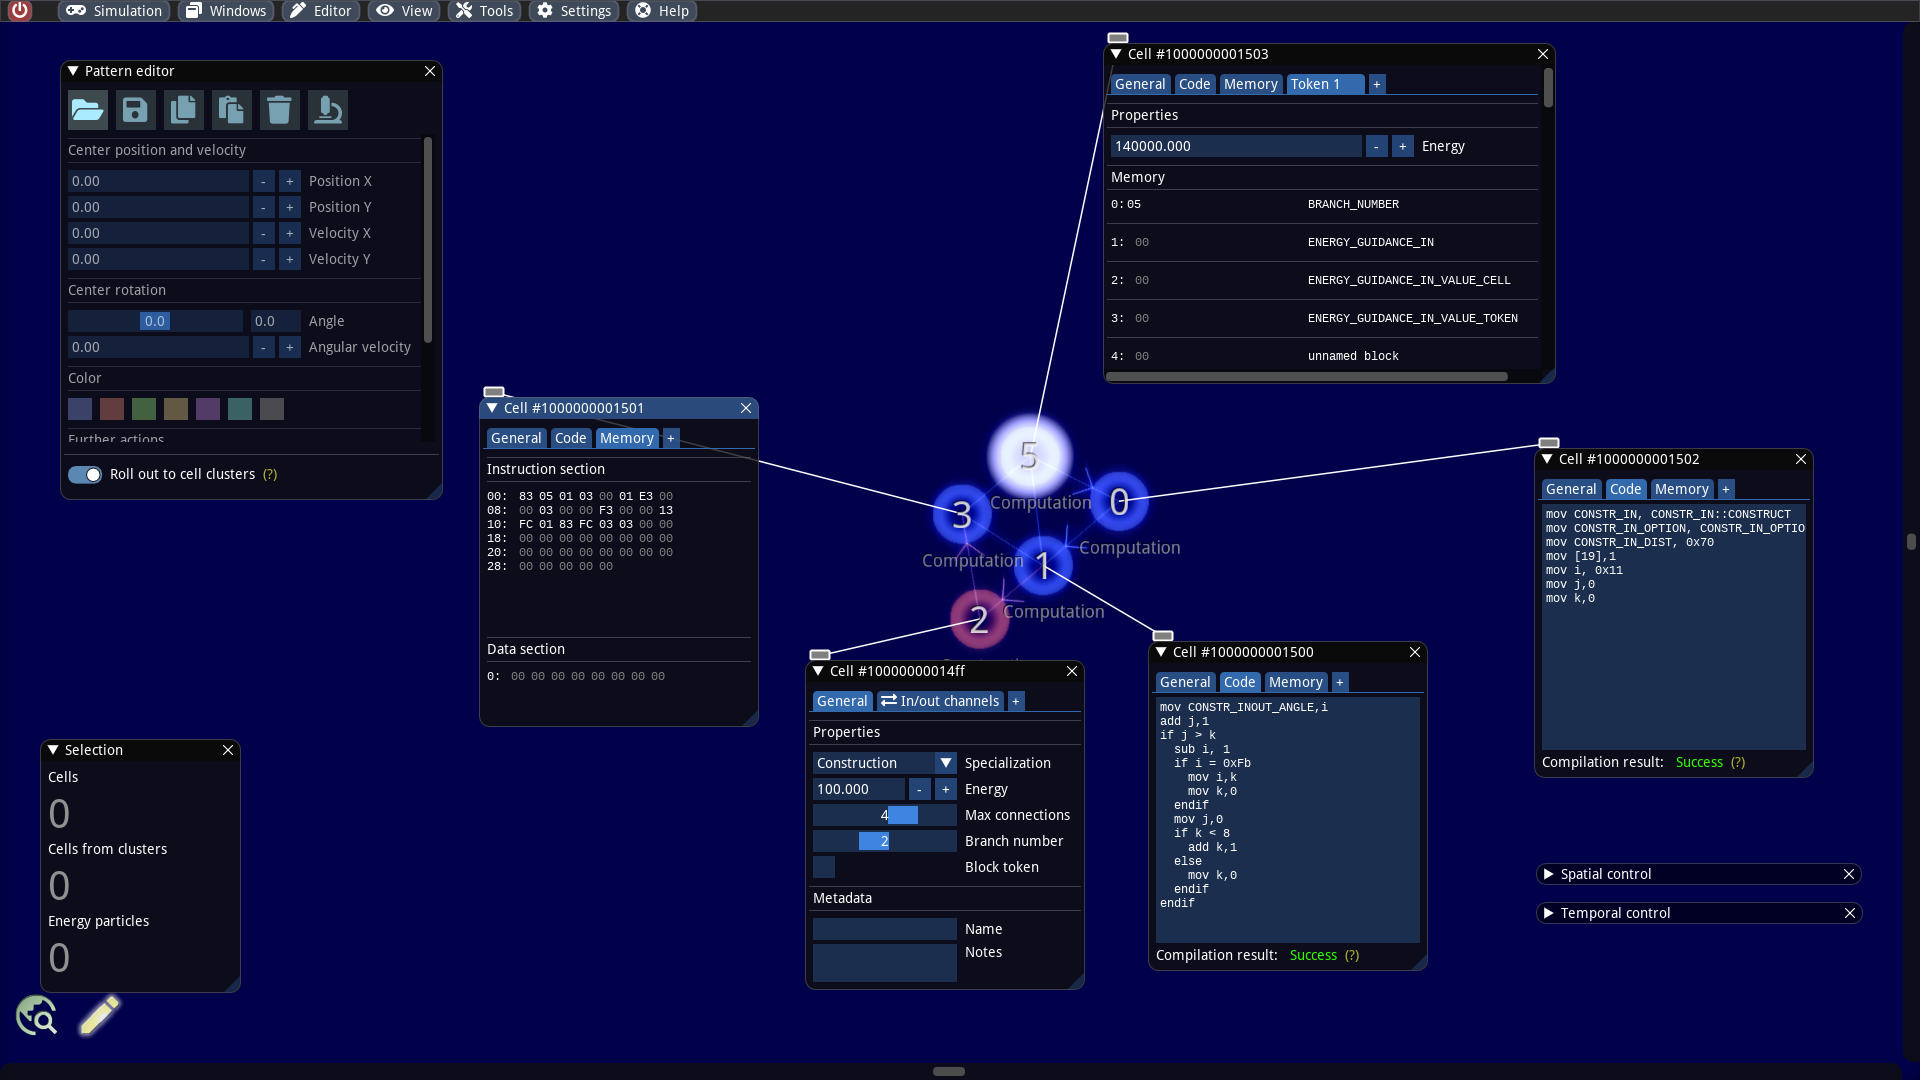
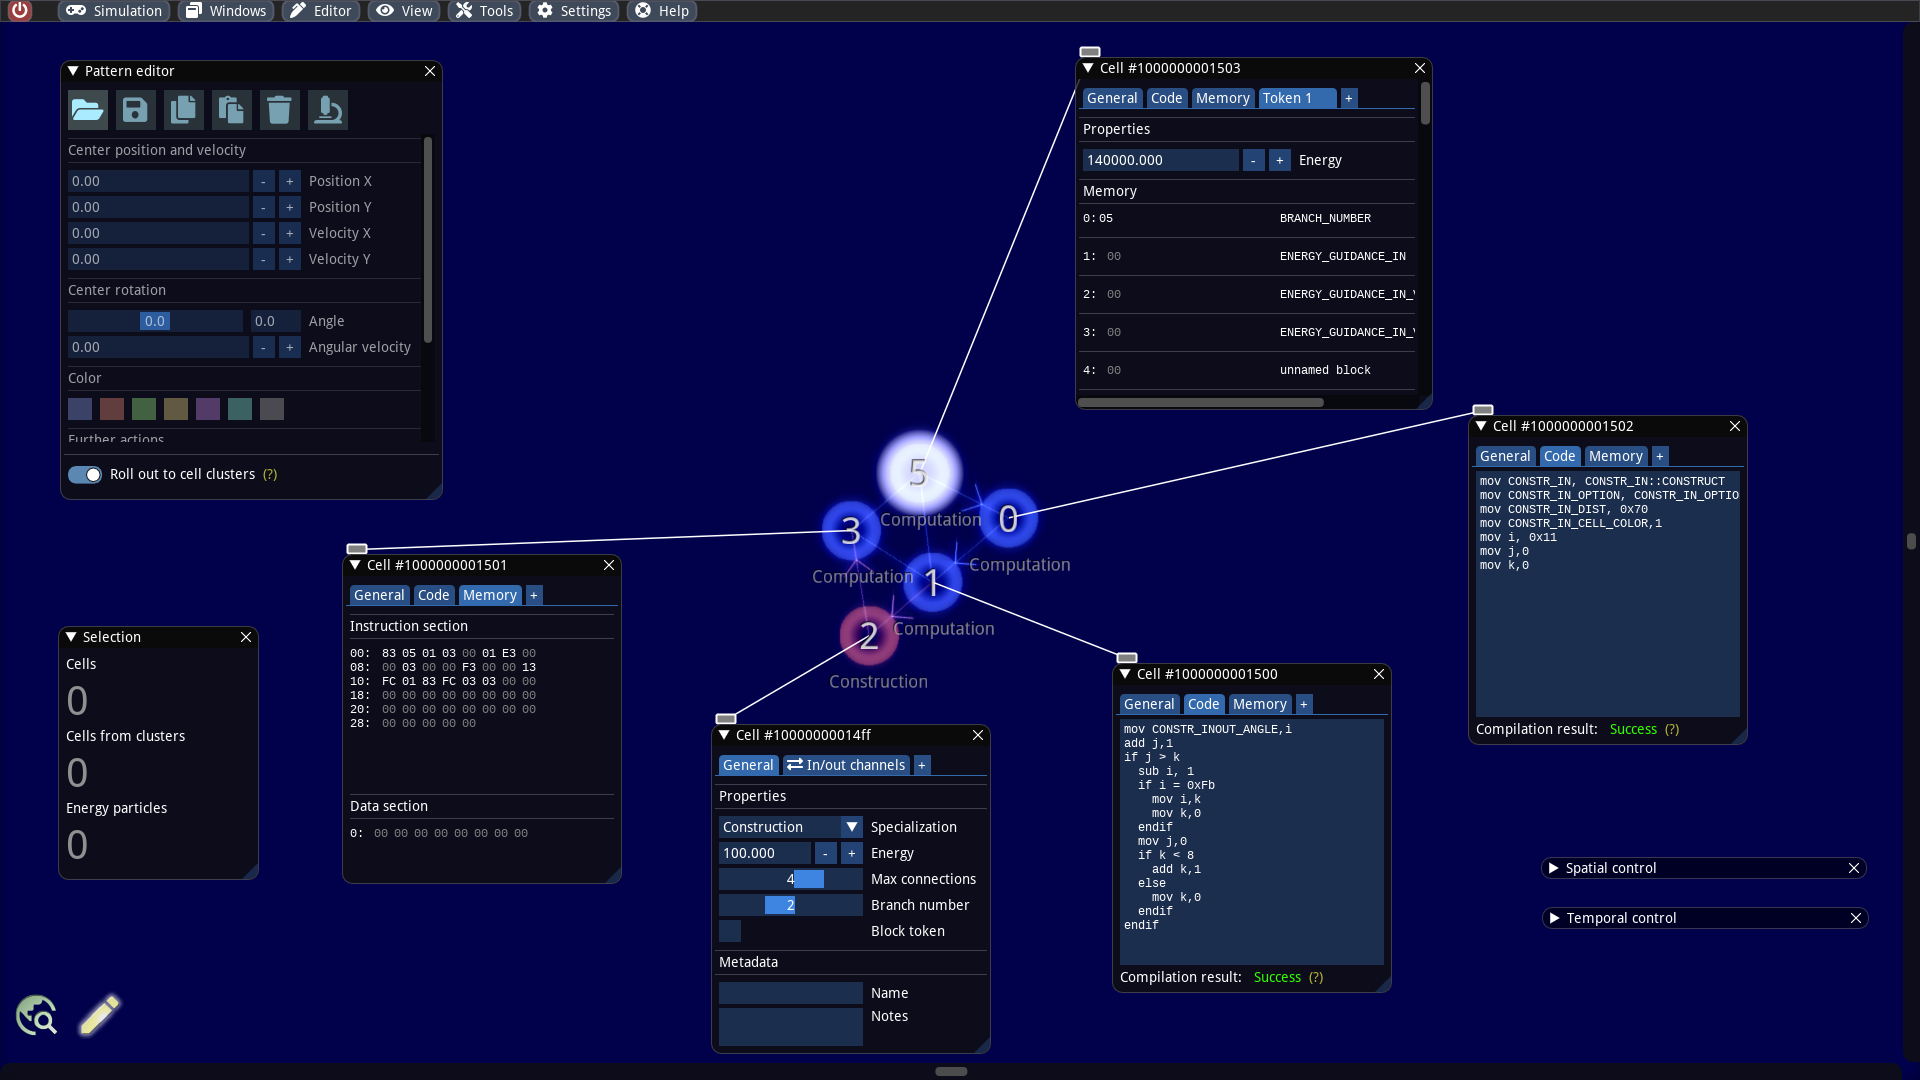
GitBook: [#155] No subject

Changed region(s): [[0.0, 0.0306, 0.9688, 0.9778], [0.7812, 0.7944, 0.9688, 0.8861]]

diff --git a/dive-a-little-deeper/particle-editing.md b/dive-a-little-deeper/particle-editing.md
@@ -6,7 +6,7 @@ It is possible to select any entity, manipulate their properties and memory, and
 
 ## Pin editing windows to cells
 
-We create a new simulation with the dimensions 1000 x 1000 and set the radiation strength and rigidity value to 0. Then, we open the pattern editor and load the example `/examples/patterns/builders/Spiral Builder.sim` into our world.
+We create a new simulation with the dimensions 1000 x 1000 and set the friction and radiation strength to 0 and the rigidity value to 0.2. Then, we open the pattern editor and load the example `/examples/patterns/builders/Spiral Builder.sim` into our world.
 
 Our first goal is first to inspect the internals of the builder more detail. We zoom in, activate the  information overlay, select all cells of the cell cluster and click the tool button with the microscope icon in the _Pattern editor_ (or even faster: ALT + N). For each selected particle, a window is now pinned, which displays all internal properties and offers editing. We place the windows so that we can easily see the cells. In addition, the overlay information allows us to identify the so-called token branch numbers and cell specializations.
 
@@ -46,3 +46,28 @@ However, one usually has the problem that the inspected cells move out of the re
 So let us try this out: We activate _Autotracking on selection_, set a slow down of e.g. 3 time steps per second and start the simulation. Now one can observe well how the token jumps back and forth between the cells and how new cells are generated bit by bit. During the generation energy is consumed, which is provided in this example by the token (i.e. the token has a very large energy value initially).
 
 ## Change cell properties
+
+As an example, we will make minimal changes to the cell code of the builder and observe the changes. Originally, the builder creates a red ribbon of connected cells that rolls up in a spiral. The red cell color of the new cells is set in the source code of the cell with the number 0 at line 4:
+
+```
+mov CONSTR_IN, CONSTR_IN::CONSTRUCT
+mov CONSTR_IN_OPTION, CONSTR_IN_OPTION::STANDARD
+mov CONSTR_IN_DIST, 0x70
+mov CONSTR_IN_CELL_COLOR, 1
+mov i, 0x11
+mov j, 0
+mov k, 0
+```
+
+The colors are numbered from 0 to 6 and correspond to the order of the color selection in the _Pattern editor_. If a token passes this cell, the 4th line causes the color code for red (=1) to be written into the token memory byte named _CONSTR\_IN\_CELL\_COLOR_. Later when the token passes the construction cell, it reads the token memory byte _CONSTR\_IN\_CELL\_COLOR_, calculates modulo 7 and thus gets the corresponding color code for the new cell.
+
+Now let us create a green ribbon for fun. For this we change the 4th line into:
+
+```
+mov CONSTR_IN_CELL_COLOR, 2
+
+```
+
+We then obtain our desired result:
+
+![Reprogrammed builder](<../.gitbook/assets/green spiral.png>)
